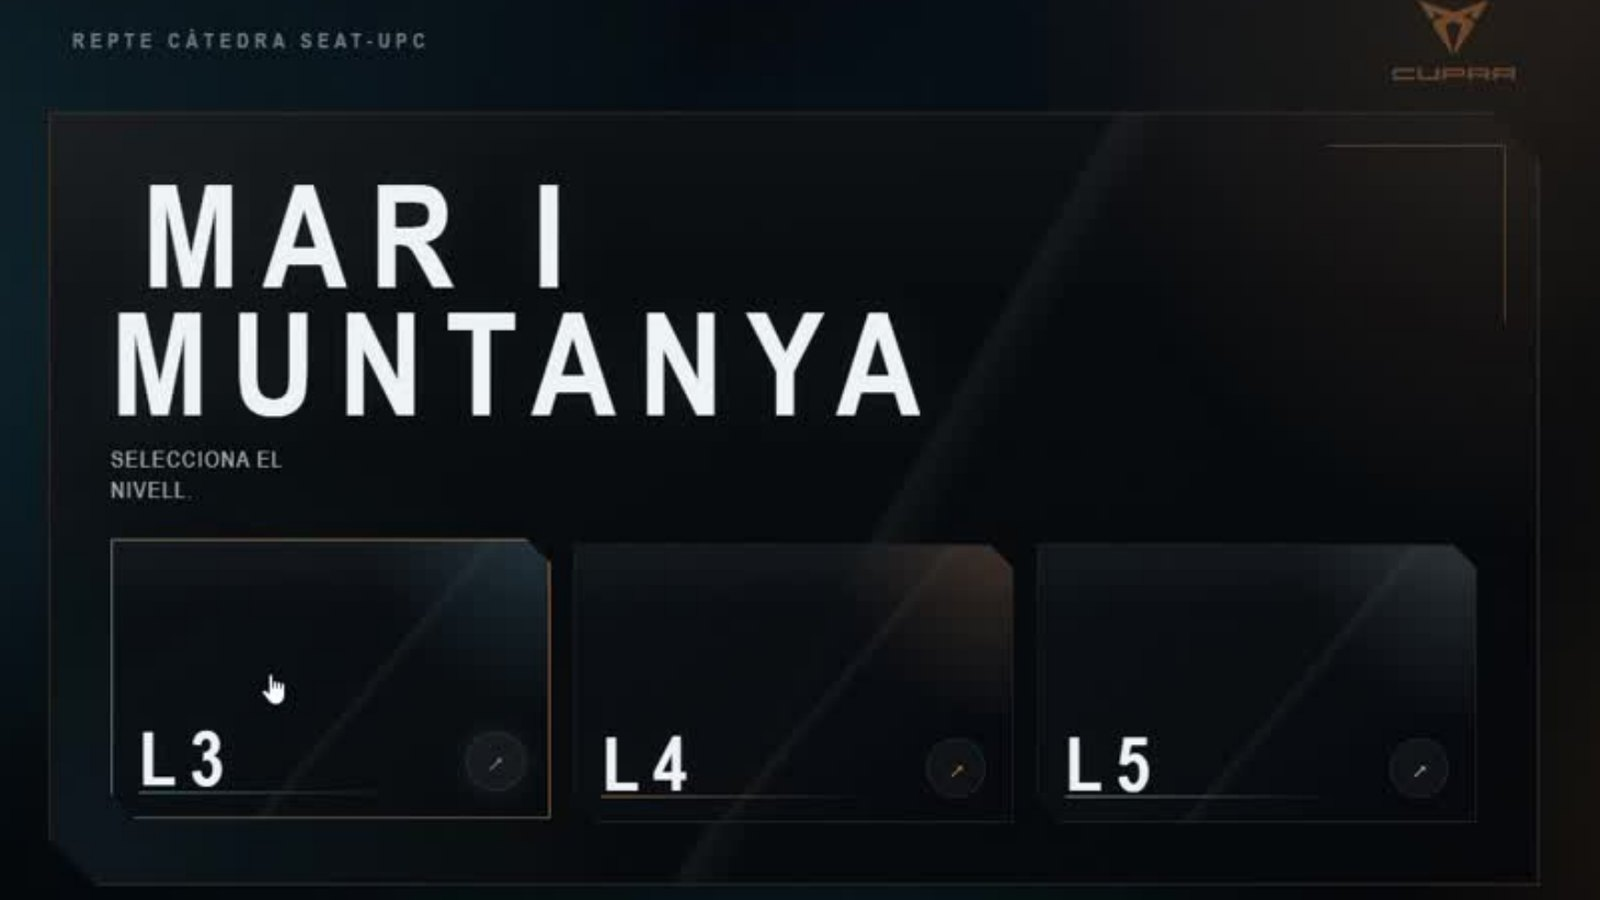
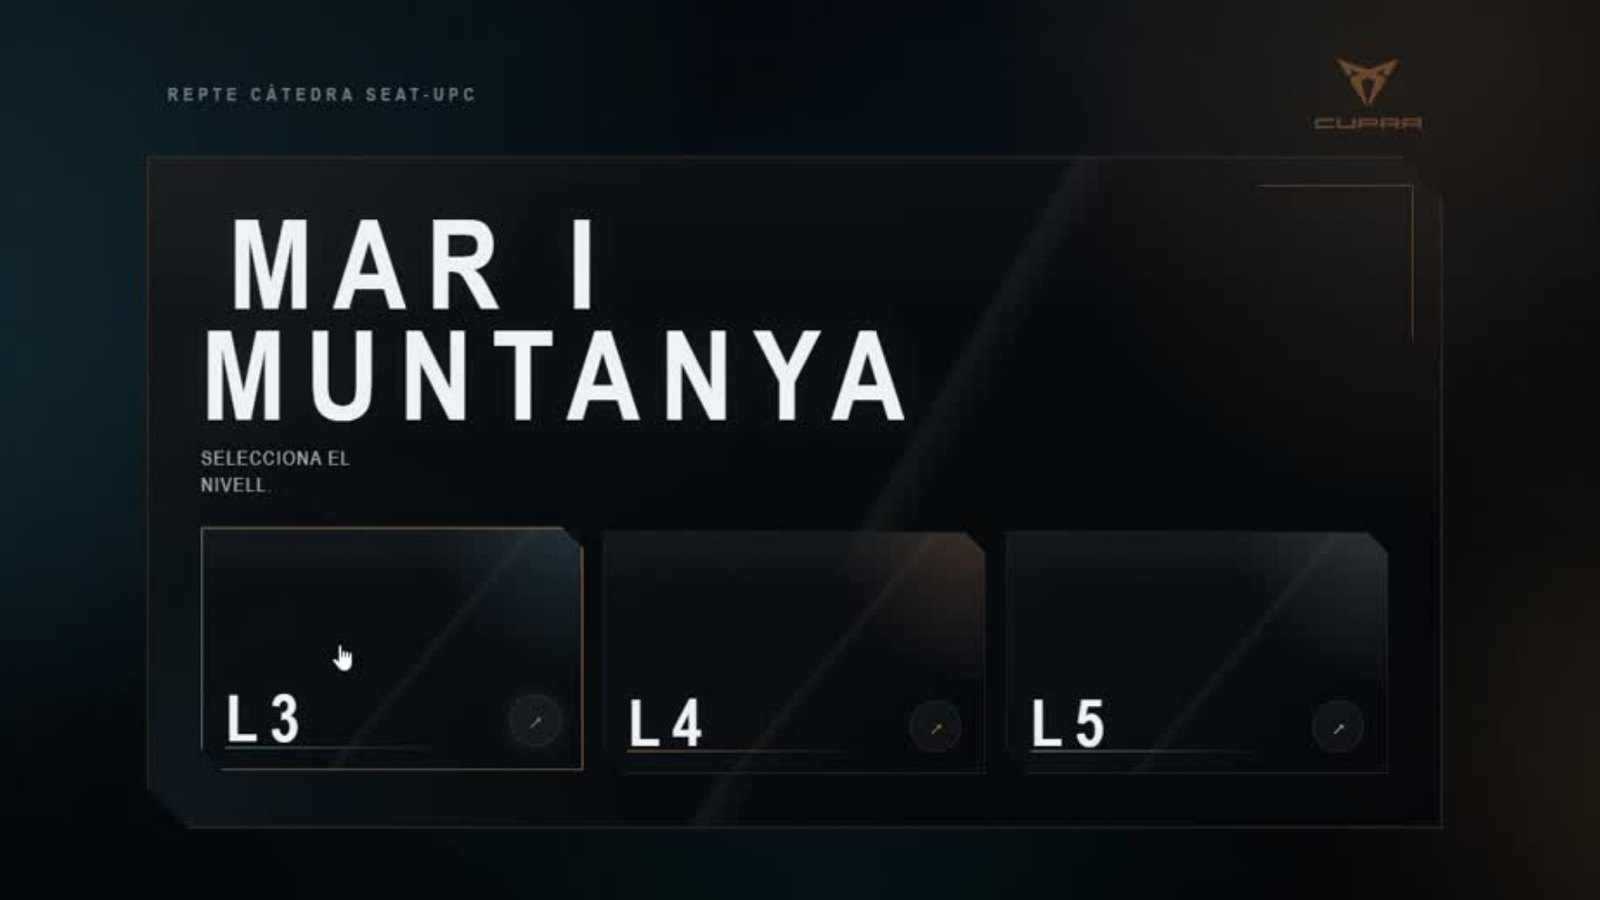
Give the hero screen a slim margin and drop the altitude line
Re-crop the simulator start screen with a thin strip of its blue
background around the interface, and remove the "altitude · summit
N of M" line above the case-study title.

Claude-Session: https://claude.ai/code/session_01KKDg9R1r2MXKvgX4aWnHiN

diff --git a/world.js b/world.js
@@ -202,8 +202,7 @@
   function renderCase(d, alt, i) {
     const hero = d.hero || [];
     let h =
-      '<p class="panel-alt">' + alt + " · Summit " + (i + 1) + " of " + n + "</p>" +
-      "<h2>" + esc(d.headline || d.title) + "</h2>" +
+      '<h2 class="case-title">' + esc(d.headline || d.title) + "</h2>" +
       (d.subtitle ? '<p class="case-sub">' + esc(d.subtitle) + "</p>" : "") +
       (hero.length ? '<div class="mock-hero">' + hero.map(device).join("") + "</div>" : "") +
       '<p class="case-lead">' + esc(d.description) + "</p>" +

diff --git a/styles.css b/styles.css
@@ -423,6 +423,7 @@ a { color: var(--sign); }
 
 /* ---------- Case study (projects with levels) ---------- */
 .panel.panel--wide { width: min(740px, 100%); overflow-x: hidden; }
+.case-title { margin: 0 !important; padding-right: 48px; }
 .case-sub { margin-top: -10px !important; font-size: 1.05rem; color: var(--muted) !important; }
 .case-lead { font-size: 1.02rem; line-height: 1.6; }
 .case-h {
